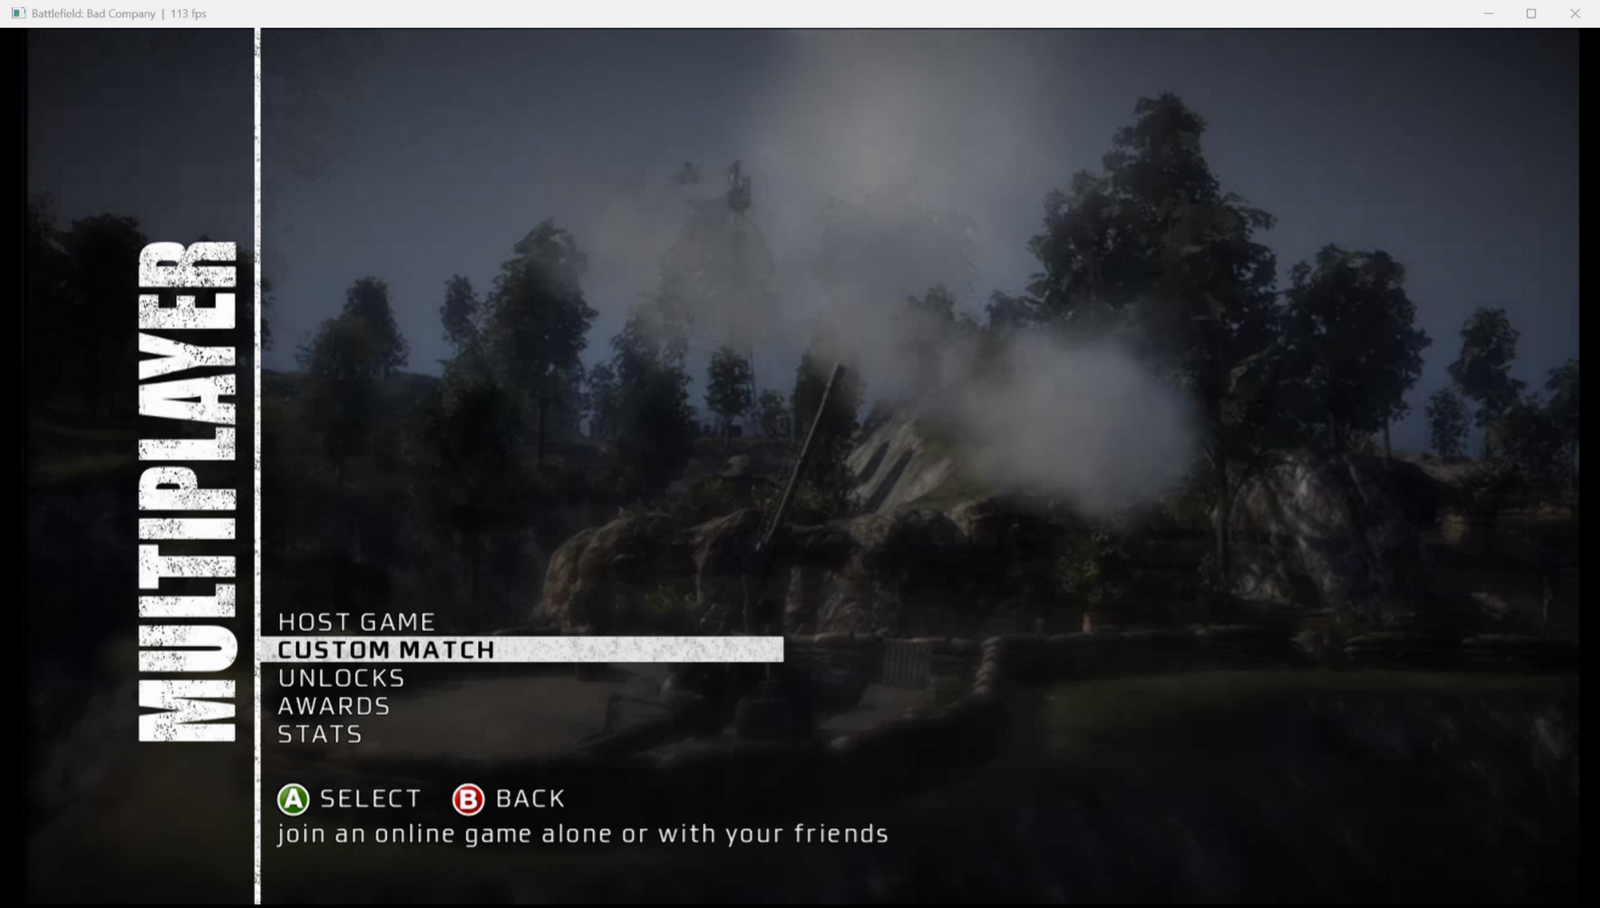
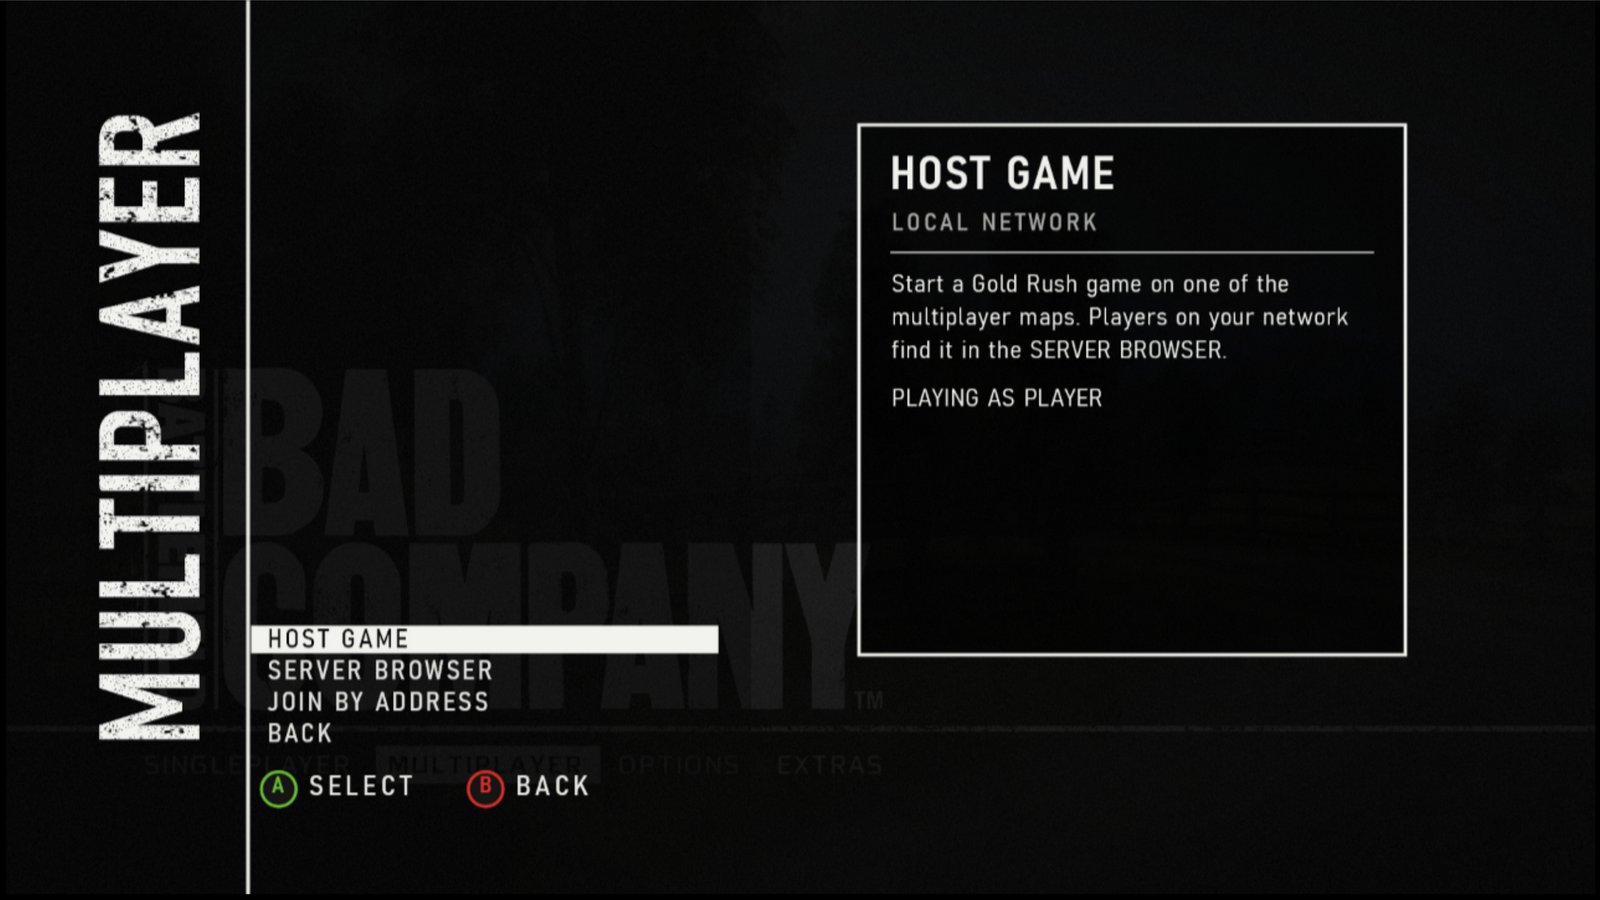
README: Bad Company's campaign and LAN multiplayer, new menu screenshot

diff --git a/README.md b/README.md
@@ -4,8 +4,8 @@
 Windows at high frame rates and resolutions, with modern graphics, full mouse and keyboard
 controls, LAN multiplayer with bots, and a brand-new menu.
 
-Battlefield: Bad Company is in progress: it boots, plays its first mission at about 100 fps
-with keyboard and mouse, and logs in to the local online service. Hosting isn't working yet.
+Battlefield: Bad Company is in progress: the campaign is playable with keyboard and mouse at
+about 100 fps, and LAN multiplayer (Gold Rush) works through its own Multiplayer menu.
 
 > You need your own copy of the game. Nothing from the game itself is included here.
 
@@ -124,12 +124,21 @@ To join a server that isn't on your network: **Join Game → Address**, or start
 
 The same recompiler is being used for Battlefield: Bad Company (Xbox 360). Current state:
 
-- Boots to the menu and runs the first mission at about 100 fps at 1× render scale, with
-  keyboard, mouse and the HUD working.
-- Online login works against the local service, and the server list reports "no games"
-  because nothing is hosted yet. Hosting isn't working.
-- Not done yet: ray-traced shadows (they stall the opening cutscene), blood, the HD texture
-  pack, and saving the campaign.
+- **Campaign:** plays at about 100 fps at 1× render scale, with keyboard, mouse and the HUD
+  working.
+- **LAN multiplayer:** **MULTIPLAYER** on the main menu opens a new menu:
+  - **Host Game:** pick one of the 8 maps (Valley Run, Deconstruction, Oasis, Final Ignition,
+    End of the Line, Ascension, Harvest Day, Over and Out) and start a Gold Rush game.
+  - **Server Browser:** lists the games on your network, with map and ping.
+  - **Join by Address:** type the host's address (add `:port` if it isn't the usual 1503).
+  - Two copies on one PC can play together. Across two PCs it hasn't been tested yet.
+  - The host's firewall needs to let the game through (UDP ports 1500-1503 and 19431).
+    Bad Company uses its own ports, so it can host on the same PC as Battlefield 1943.
+  - A player who stays on the spawn screen for about two minutes without deploying is sent
+    back to the menu (the game's own idle rule).
+- **Only Gold Rush:** the disc has no Conquest; that came later in an update.
+- **Not done yet:** bots, playing online, ray-traced shadows (they stall the opening
+  cutscene), blood and the HD texture pack. Saving the campaign hasn't been checked yet.
 
 | In game | Multiplayer menu |
 |---|---|
